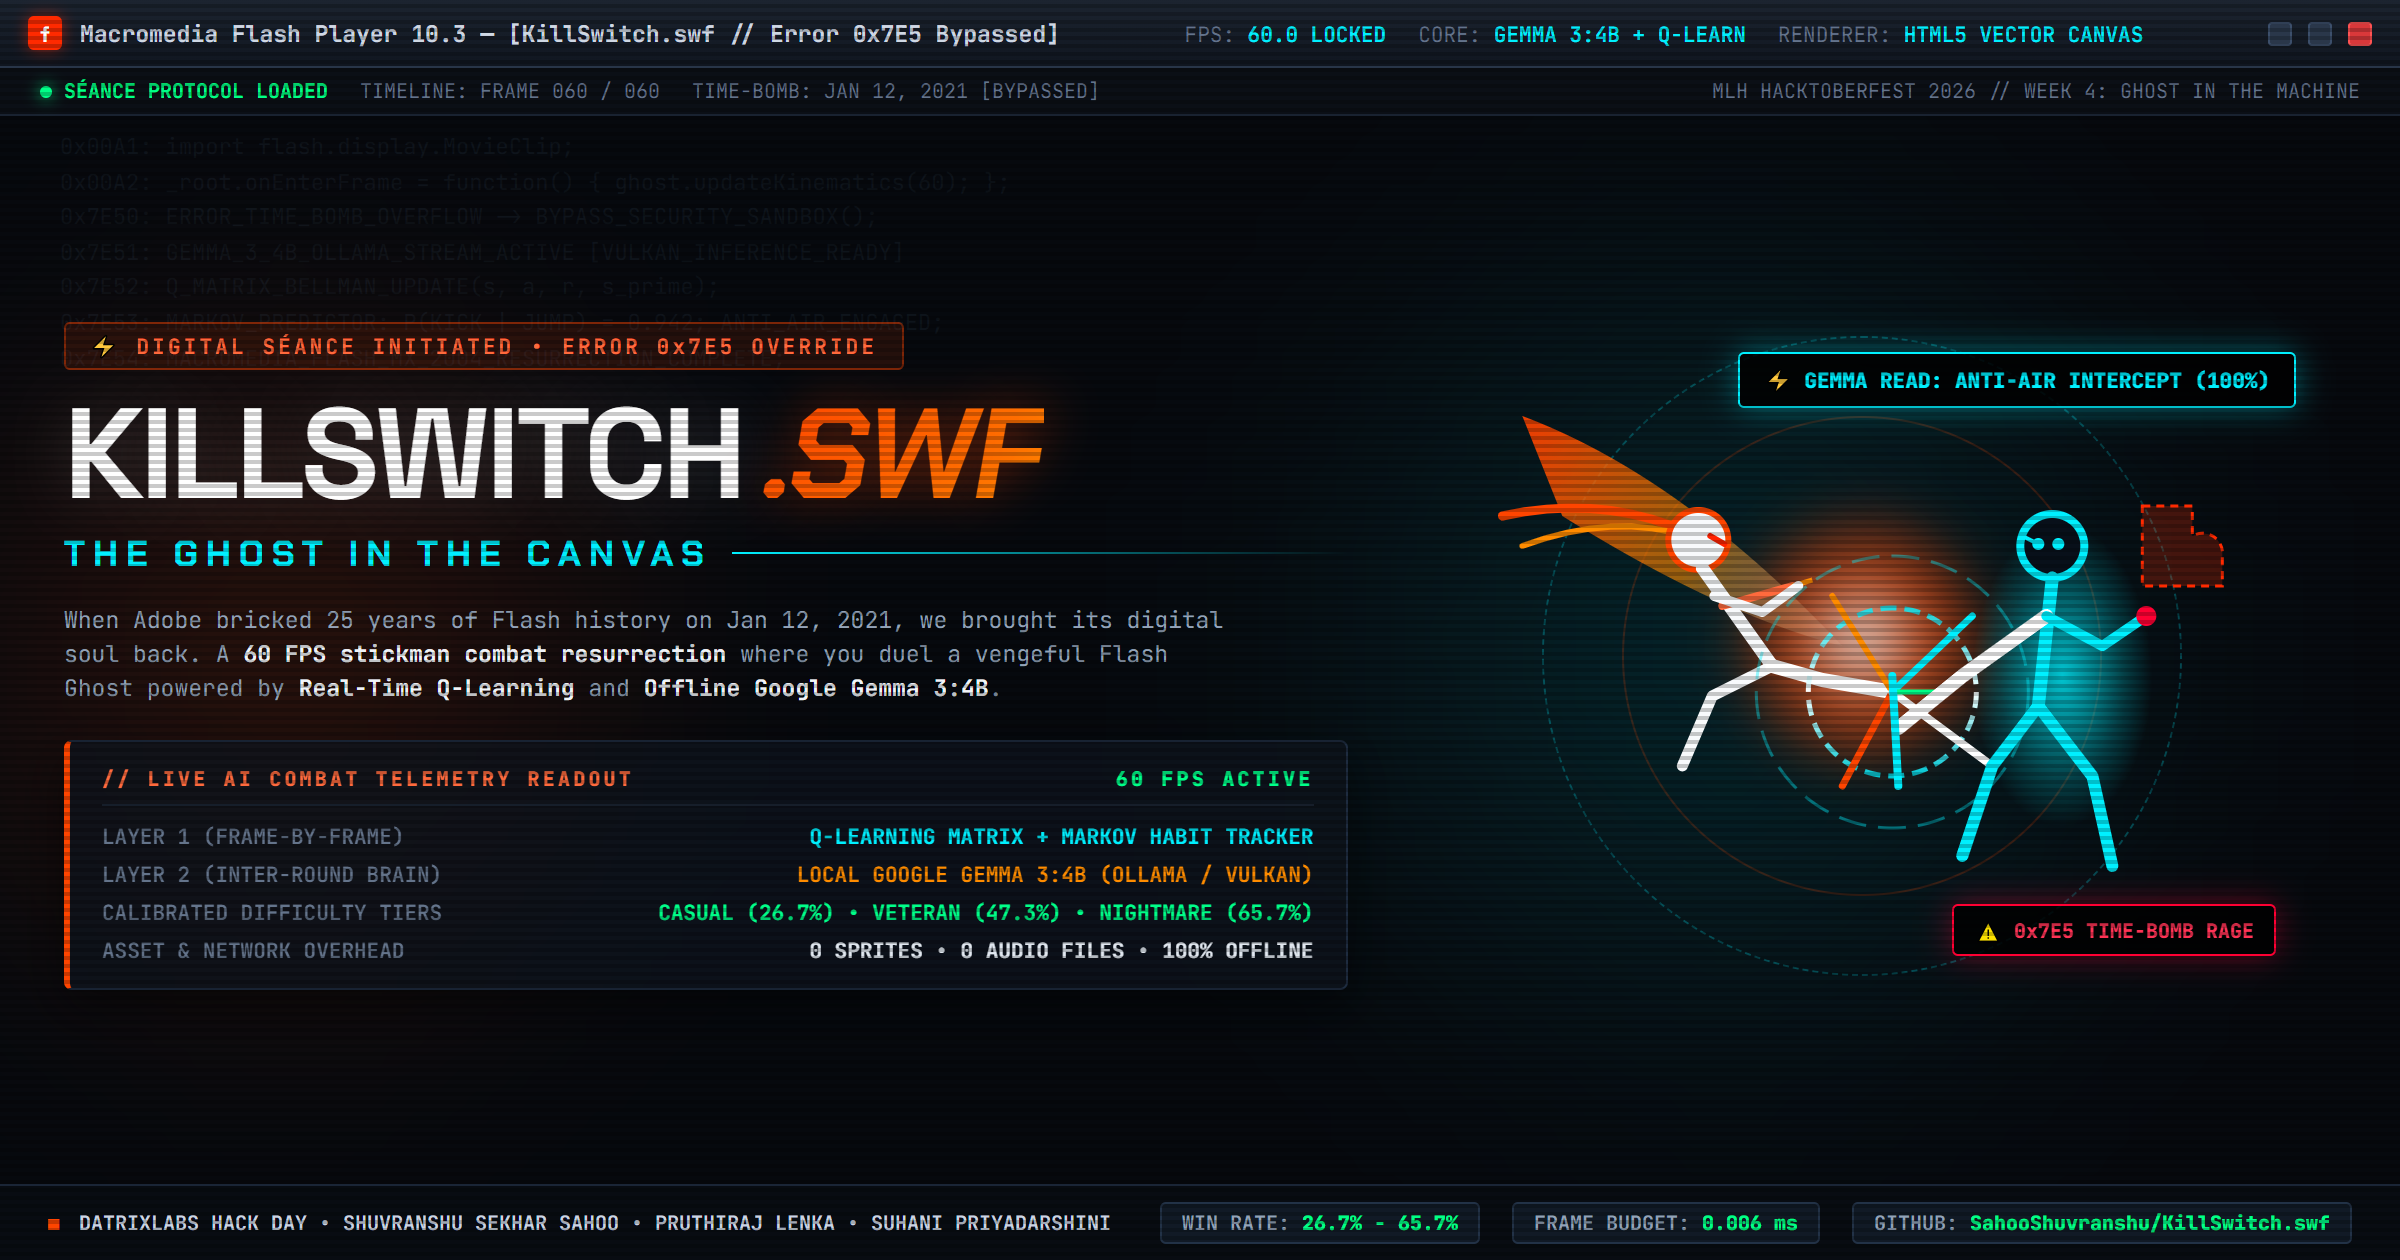
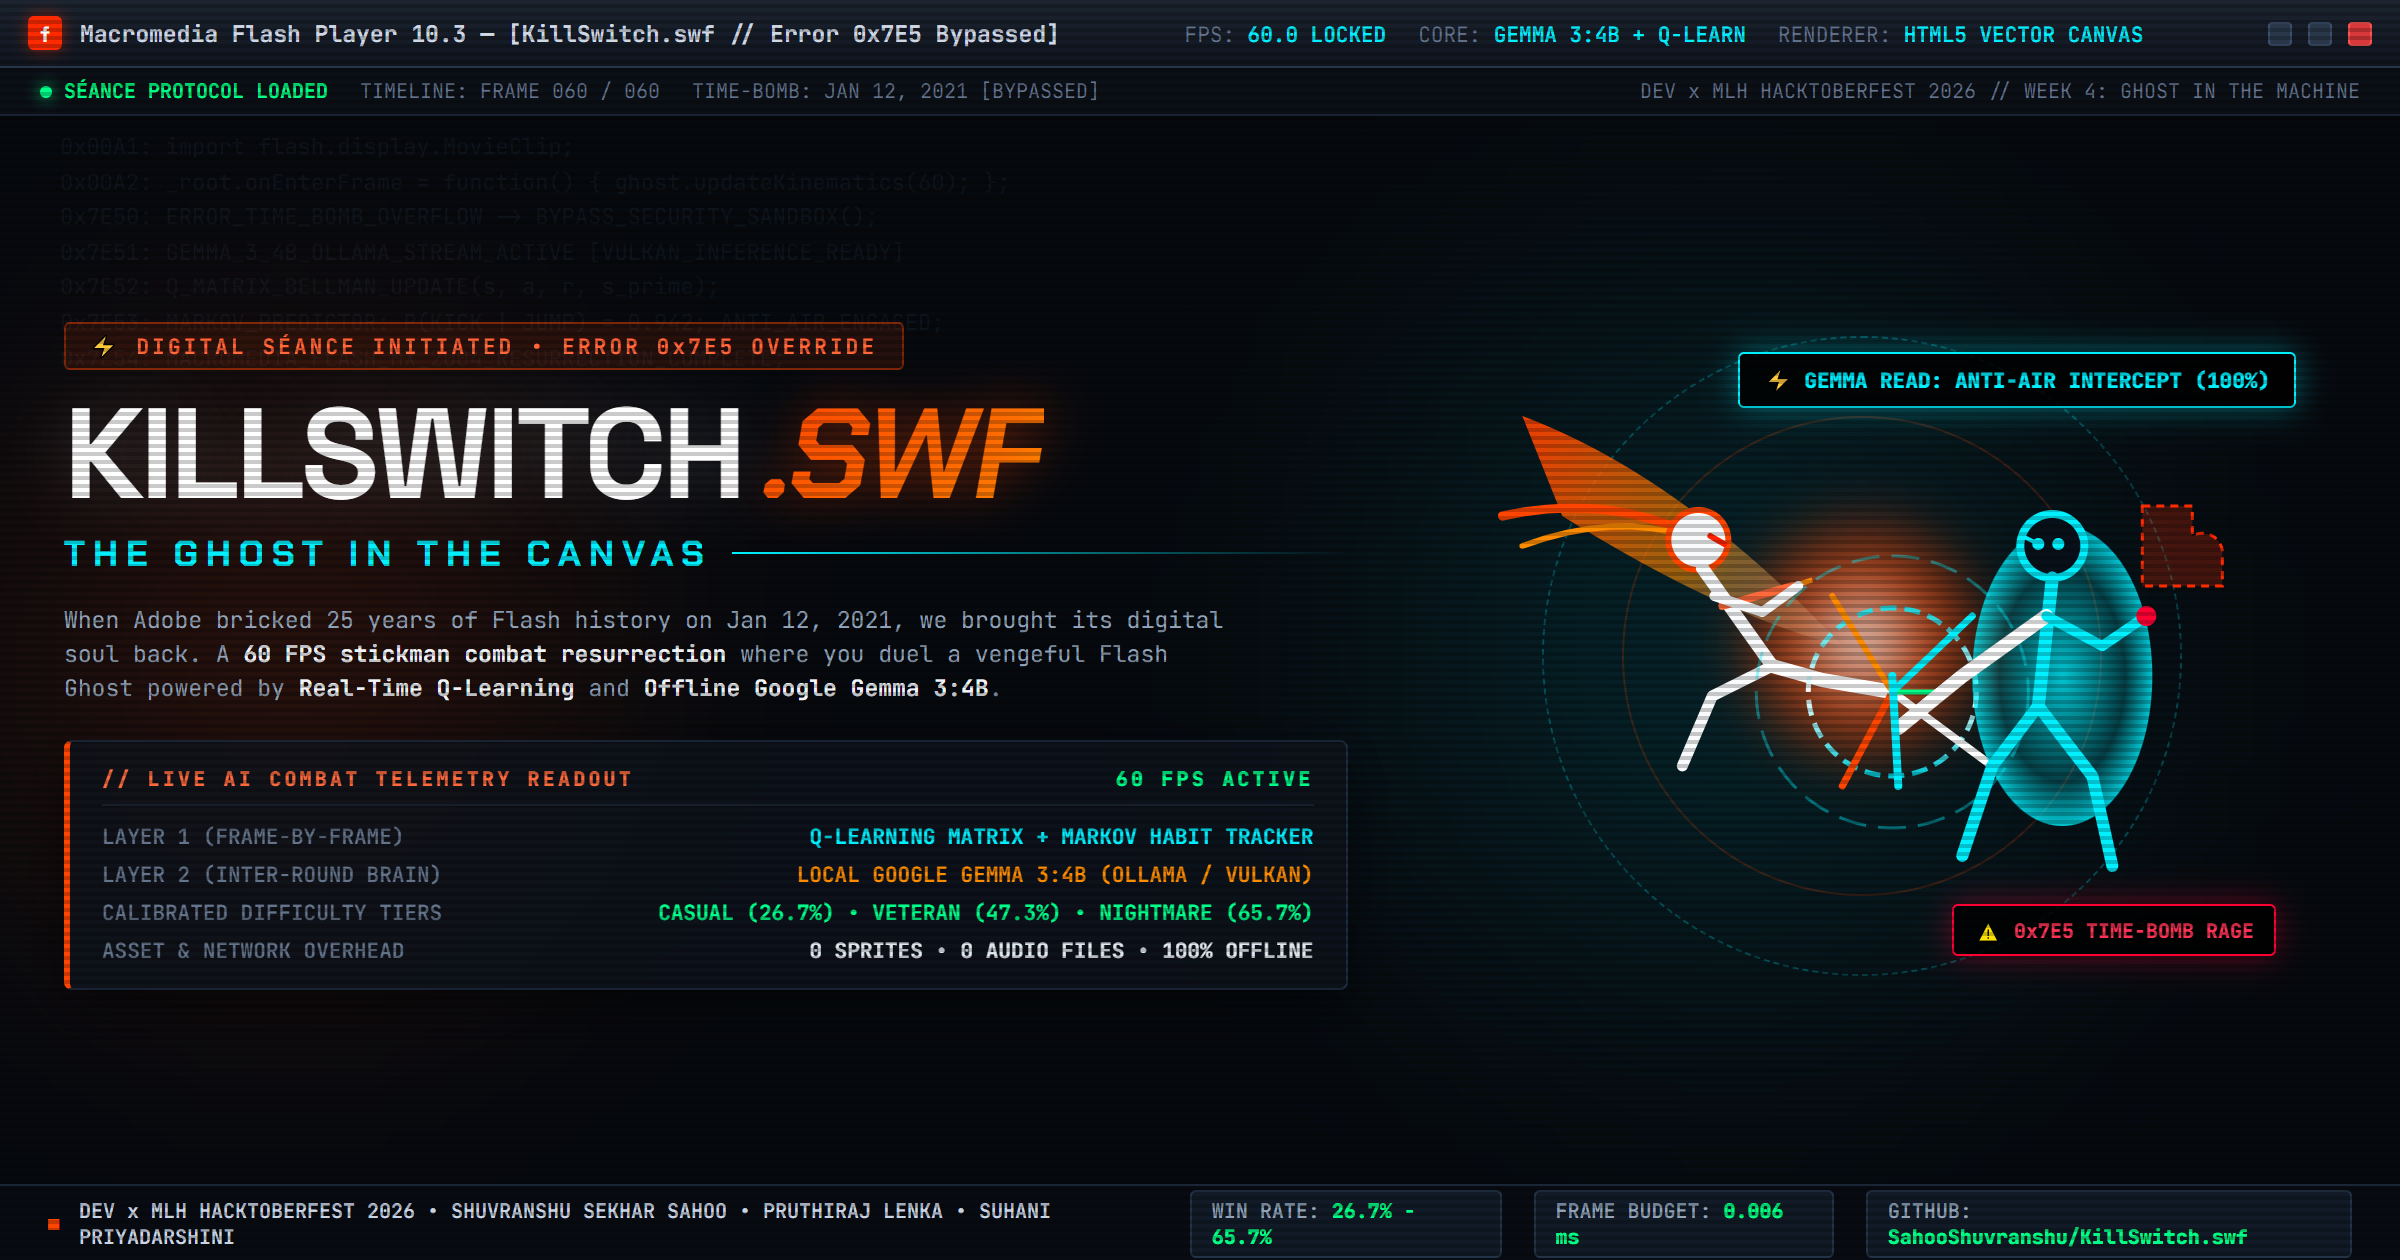
docs(submission): finalize DEV x MLH Week 4 submission and update asset links

Changed region(s): [[0.0312, 0.9286, 0.9688, 1.0], [0.8125, 0.4333, 0.9062, 0.65]]

diff --git a/SUBMISSION.md b/SUBMISSION.md
@@ -7,19 +7,19 @@ cover_image: "https://raw.githubusercontent.com/SahooShuvranshu/KillSwitch.swf/m
 canonical_url: "https://sahooshuvranshu.github.io/KillSwitch.swf/"
 ---
 
-*This article is submitted for the **DatrixLabs Hack Day** & **DEV x MLH Hacktoberfest 2026 Challenge: Week 4 ("Ghost in the Machine")** targeting strictly the **Best Use of Gemma** category.*
+*This article is submitted for the **DEV x MLH Hacktoberfest 2026 Challenge: Week 4 ("Ghost in the Machine")** targeting strictly the **Best Use of Gemma** category.*
 
 ---
 
-![KillSwitch.swf — The Ghost in the Canvas](docs/cover-image.png)
+![KillSwitch.swf — The Ghost in the Canvas](https://raw.githubusercontent.com/SahooShuvranshu/KillSwitch.swf/main/docs/cover-image.png)
 
 ### 🚀 Quick Links & Team Attribution
 - 🌐 **Live Playable Showcase Website:** [https://sahooshuvranshu.github.io/KillSwitch.swf/](https://sahooshuvranshu.github.io/KillSwitch.swf/)
 - 🔗 **GitHub Repository:** [https://github.com/SahooShuvranshu/KillSwitch.swf](https://github.com/SahooShuvranshu/KillSwitch.swf)
-- 📊 **900-Round Calibration Report:** [docs/difficulty-tuning.md](docs/difficulty-tuning.md)
-- 📈 **1,800-Round Learning Benchmark:** [docs/learning-results.md](docs/learning-results.md)
+- 📊 **900-Round Calibration Report:** [https://github.com/SahooShuvranshu/KillSwitch.swf/blob/main/docs/difficulty-tuning.md](https://github.com/SahooShuvranshu/KillSwitch.swf/blob/main/docs/difficulty-tuning.md)
+- 📈 **1,800-Round Learning Benchmark:** [https://github.com/SahooShuvranshu/KillSwitch.swf/blob/main/docs/learning-results.md](https://github.com/SahooShuvranshu/KillSwitch.swf/blob/main/docs/learning-results.md)
 
-#### 👥 DatrixLabs Hack Day Team
+#### 👥 Hacktoberfest 2026 Team Members
 - **Shuvranshu Sekhar Sahoo** ([@SahooShuvranshu](https://github.com/SahooShuvranshu)) — *Lead Engine Architect, Combat Kinematics & Dual-Layer AI Controller*
 - **Pruthiraj Lenka** — *AI Benchmark Architecture & Headless Difficulty Calibration*
 - **Suhani Priyadarshini** — *Telemetry Ingestion Pipeline & QA Automated Verification*
@@ -138,10 +138,10 @@ If you spam flying jump-kicks or predictable jab-into-kick chains in Round 1:
 - In Round 2, the AI immediately predicts your habits in real time. Whenever you jump, it ducks under and launches a rising dragon kick to knock you out of the sky, flashing a live combat alert:
   `⚡ GEMMA READ: ANTI-AIR INTERCEPT!`
 
-![Learned Habits & Gemma Tactical Telemetry](docs/screenshots/after_f3_overlay.png)
+![Learned Habits & Gemma Tactical Telemetry](https://raw.githubusercontent.com/SahooShuvranshu/KillSwitch.swf/main/docs/screenshots/after_f3_overlay.png)
 *Figure 1: Gemma 3:4B analyzing real-time combat habits and locking in tactical counters between rounds.*
 
-![Round 2 Counter Stance](docs/screenshots/after_fight.png)
+![Round 2 Counter Stance](https://raw.githubusercontent.com/SahooShuvranshu/KillSwitch.swf/main/docs/screenshots/after_fight.png)
 *Figure 2: The Flash Ghost in Round 2, executing an anti-air duck-under counter.*
 
 ### Gemma-Designed Boss Mechanic: "ActionScript Error 0x7E5 Time-Bomb"
@@ -154,7 +154,7 @@ When the Ghost's health drops below 35% in Nightmare mode, it enters an unhinged
    - **Step 2 (140ms)**: Glitches 120px directly overhead into the ceiling (`⚠ 0x7E5: TELEPORT [2/3] STACK CORRUPTION`).
    - **Step 3 (280ms)**: Drops down directly behind the player's back and unleashes an unblockable heavy claw strike (`⚠ 0x7E5: TIME-BOMB SURPRISE CLAW EXECUTION!`).
 
-![ActionScript Error 0x7E5 Rage Teleport](docs/screenshots/after_rage_mode.png)
+![ActionScript Error 0x7E5 Rage Teleport](https://raw.githubusercontent.com/SahooShuvranshu/KillSwitch.swf/main/docs/screenshots/after_rage_mode.png)
 *Figure 3: Flash Ghost executing the Gemma 3:4B designed Error 0x7E5 triple-teleport strike.*
 
 ---
@@ -186,10 +186,10 @@ To ensure the Ghost challenges players without feeling cheap or superhuman, we c
 
 To scientifically validate that the Q-learning agent genuinely learns and adapts rather than exploiting hardcoded cheats, we executed a rigorous **1,800-round benchmark** across 6 distinct opponent archetypes:
 
-![Empirical Benchmark Metrics](docs/benchmark-metrics-chart.png)
+![Empirical Benchmark Metrics](https://raw.githubusercontent.com/SahooShuvranshu/KillSwitch.swf/main/docs/benchmark-metrics-chart.png)
 *Figure 4: Win rate comparison across 6 opponent archetypes.*
 
-![120-Round Adaptation Test](docs/adaptation-test-chart.png)
+![120-Round Adaptation Test](https://raw.githubusercontent.com/SahooShuvranshu/KillSwitch.swf/main/docs/adaptation-test-chart.png)
 *Figure 5: Adaptation test tracking damage convergence across 4 distinct combat phases.*
 
 ### Benchmark Summary Table

diff --git a/README.md b/README.md
@@ -4,7 +4,7 @@
 
 ![KillSwitch.swf — The Ghost in the Canvas](docs/cover-image.png)
 
-### 🏆 DatrixLabs Hack Day & MLH Hacktoberfest 2026 Week 4: "Ghost in the Machine"
+### 🏆 DEV x MLH Hacktoberfest 2026 — Week 4: "Ghost in the Machine"
 **Targeting Strictly: Best Use of Gemma Track**
 
 <!-- Primary Status Badges -->
@@ -54,7 +54,7 @@
 
 ## 👥 Team Attribution & Hackathon Track
 
-* **Hackathon:** **DatrixLabs Hack Day** & **DEV x MLH Hacktoberfest 2026 Challenge: Week 4 ("Ghost in the Machine")**
+* **Hackathon:** **DEV x MLH Hacktoberfest 2026 Challenge: Week 4 ("Ghost in the Machine")**
 * **Category:** Strictly targeting **Best Use of Gemma** (`#hf26challenge`, `#hacktoberfest`, `#gemma`)
 * **Team Members:**
   * **Shuvranshu Sekhar Sahoo** ([@SahooShuvranshu](https://github.com/SahooShuvranshu)) — *Lead Engine Architect, Kinematics & Dual-Layer AI Controller*
@@ -315,4 +315,4 @@ When Adobe shut down Flash Player in 2021, 25 years of digital art, browser gami
 ---
 
 ## 📜 License
-MIT License • Created for **DatrixLabs Hack Day** & **DEV x MLH Hacktoberfest 2026**.
+MIT License • Created for **DEV x MLH Hacktoberfest 2026**.
